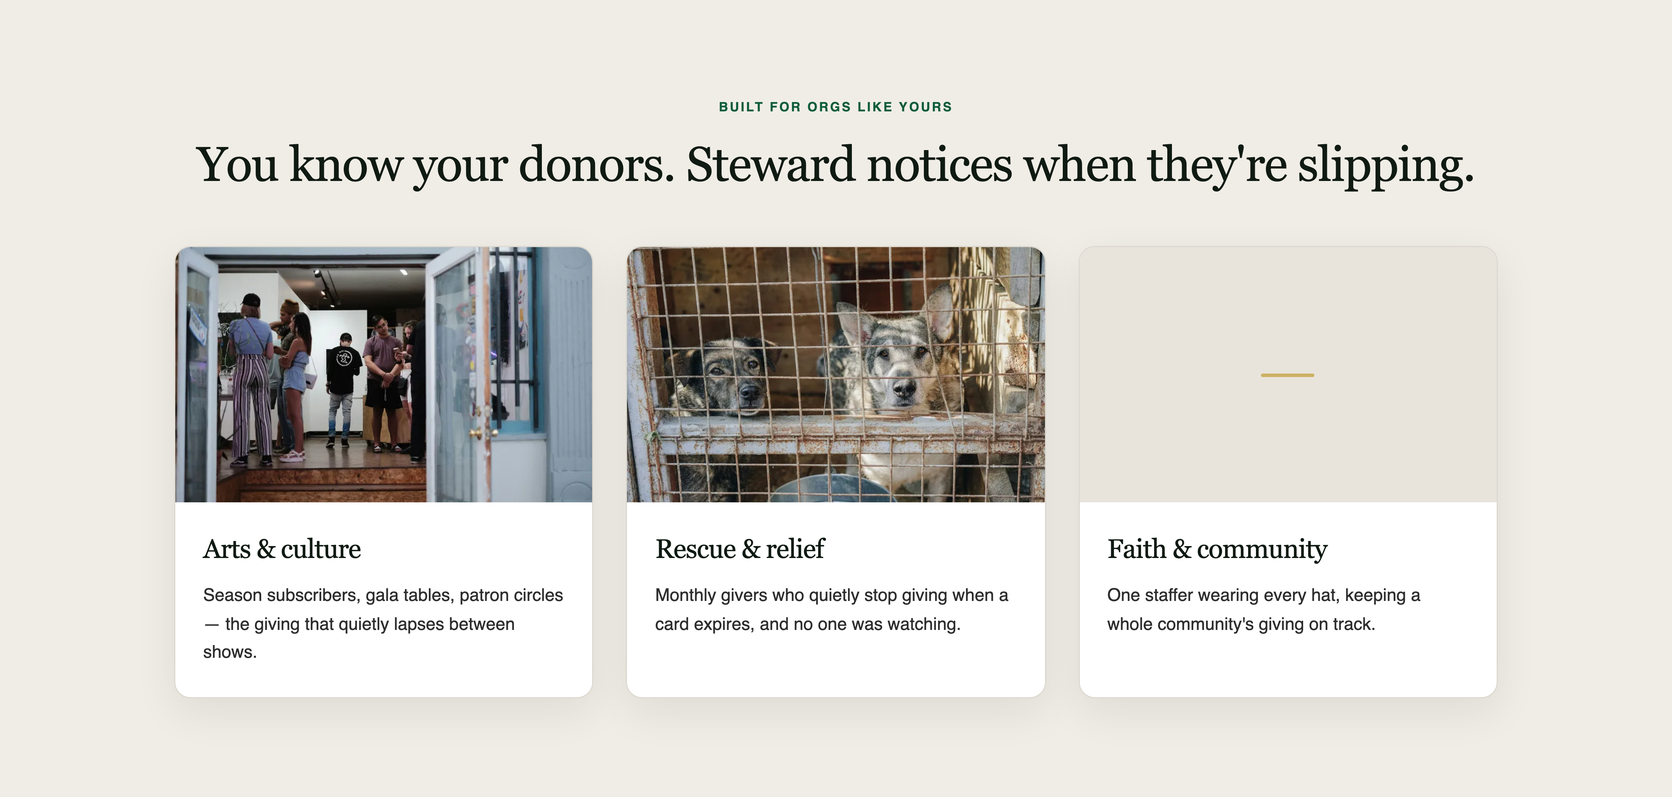
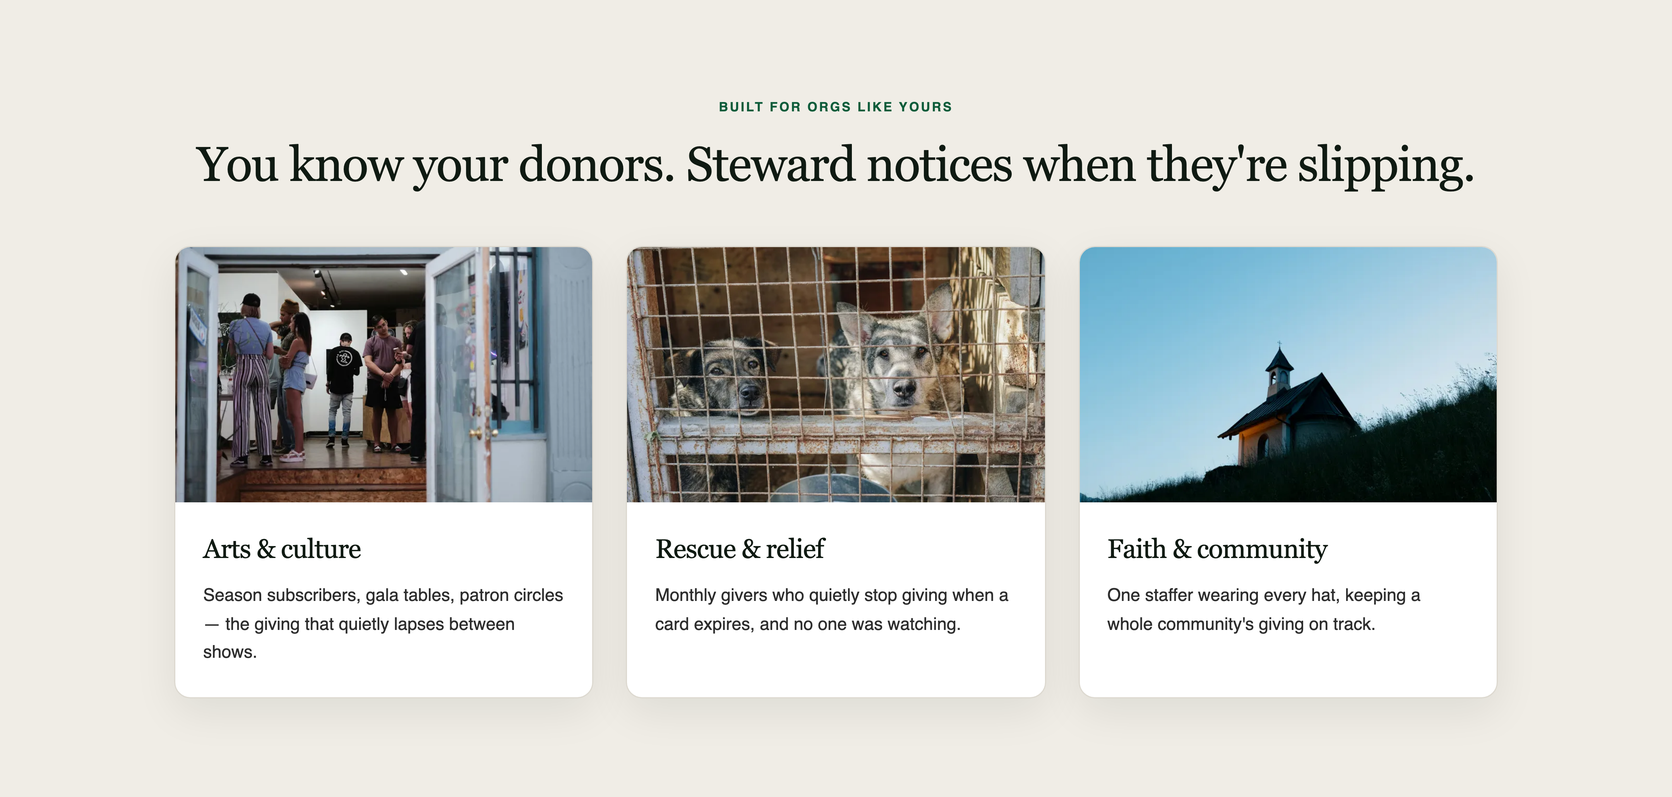
BUILD-28: Faith & community card gets a photo (hillside chapel at dusk)
Wires the user-cleared kevin-mueller-8IbeGOj9AGA-unsplash.jpg into the Faith
card (card-faith-{400,800}.webp). All three verticals cards now carry free-tier
Unsplash photos; the graceful fallback stays in code but is unused. Portrait
source cropped to the landscape card via object-position: center 60% (keeps the
lit chapel framed). Below-the-fold lazy card, no LCP/CLS impact. ASSETS.md +
CLAUDE.md updated. Guards green (funnel 24, hero 18).

Changed region(s): [[0.625, 0.3105, 0.9062, 0.6521]]

diff --git a/client/src/pages/Landing.jsx b/client/src/pages/Landing.jsx
@@ -61,7 +61,8 @@ const VERTICALS = [
   {
     title: "Faith & community",
     blurb: "One staffer wearing every hat, keeping a whole community's giving on track.",
-    img: null,
+    img: "/card-faith",
+    pos: "center 60%", // portrait source — keep the lit chapel in the landscape crop
   },
 ];
 
@@ -683,7 +684,8 @@ export default function Landing() {
                       src={`${v.img}-800.webp`}
                       srcSet={`${v.img}-400.webp 400w, ${v.img}-800.webp 800w`}
                       sizes="(max-width: 768px) 100vw, 360px"
-                      width="800" height="533" loading="lazy" decoding="async" />
+                      width="800" height="533" loading="lazy" decoding="async"
+                      style={v.pos ? { objectPosition: v.pos } : undefined} />
                   ) : (
                     <div className="lp-vert-fallback" aria-hidden="true"><span className="lp-vert-rule" /></div>
                   )}

diff --git a/scripts/build28-prepare-images.js b/scripts/build28-prepare-images.js
@@ -34,6 +34,9 @@ const JOBS = [
   ["dillon-wanner-EeAL5G9HDV0-unsplash.jpg", "card-arts", [400, 800], 80],
   // Rescue & relief vertical card — shelter dogs (Sasha Sashina). ~360px.
   ["sasha-sashina-Xcscr_sNSEY-unsplash.jpg", "card-rescue", [400, 800], 80],
+  // Faith & community vertical card — hillside chapel at dusk (Kevin Mueller).
+  // Portrait source; cropped to the card via object-position (see Landing.jsx).
+  ["kevin-mueller-8IbeGOj9AGA-unsplash.jpg", "card-faith", [400, 800], 80],
 ];
 
 (async () => {

diff --git a/CLAUDE.md b/CLAUDE.md
@@ -83,7 +83,7 @@ Decided 2026-07-16 (BUILD-04 Strike 4): use a free external ping service rather 
 - scripts/landing-funnel-verify.js — committed honesty-gate + funnel check (BUILD-11 Build B). Asserts: the funnel sections render **in order** (hero → wedge calculator → problem → 3 product moments → how-it-works → money strip → candor → founder → close), the interactive recurring-loss **calculator computes correctly** for multiple slider inputs (`monthly × 12 × 0.24`, read from `.lp-calc-loss`) and states its assumption, **no fabricated social proof** (grep guard: no "trusted by"/"as seen in"/star ratings/invented user counts/testimonial-quote-with-attribution/logo-bar images — deliberately NOT a bare `/testimonial/` since the candor section honestly says it won't "sell you a testimonial"), and every CTA links live (Start free → /signup, real footer links). `innerText` is compared **case-insensitively** because CSS `text-transform:uppercase` on the eyebrows changes what `innerText` returns. Same PLAYWRIGHT_DIR/BASE conventions as the other landing scripts. Latest run: **24/24** against a local `vite preview` of the BUILD-12 landing (honesty gates still hold after the DOM-shot rework).
 - **Landing honesty gates (BUILD-11 Build B — MUST hold at every push):** no fabricated logos/testimonials/star-ratings/user-counts/"$X raised"; no advertised feature that isn't live in-product; the product visuals faithfully reflect the real product (as of BUILD-12 they are DOM renders of the real components with clearly-sample-labeled values — not photos, but they must still not misrepresent what ships); the interactive calculator uses honest math with a visible assumption. These are enforced by `landing-funnel-verify.js`. A future session must NOT "add social proof" by faking it — Steward is pre-pilot and the whole brand is that it won't invent traction. Note Supabase backups still don't exist (don't claim them).
 - **Landing product shots are DOM/SVG, NOT raster (BUILD-12 — MUST NOT be reverted):** the hero (goal + retention card), the queue, the receipt, the recovery email, and the three how-it-works shots are live HTML/CSS renders of the real components (Landing.jsx's `HeroShot`/`QueueShot`/`ReceiptShot`/`ImportShot`/`ClimbShot` + the pre-existing `.lp-email`), built to match the crisp `RecoveryCalculator` card. Reason: this is a Vite **static** app (no Vercel/Next image optimizer), so prod serves committed bytes verbatim — the retina blur was never CDN re-encoding, it was raster-of-text softness, and only vector text is crisp at every DPR. Crispness is now verified against **prod-served bytes** by `landing-crispness-prod.js`, not against committed files. Do NOT "optimize" these back into `<img>` screenshots; if a value needs updating, edit the component markup (keep values real or clearly sample-labeled).
-- /client/src/pages/Landing.jsx — public landing page. **BUILD-28 (2026-07-30): the landing is now IMAGE-FORWARD / NONPROFIT-NATIVE — the page's top third is photography + words, the DOM product shots are demoted to PROOF below the calculator.** Structure: full-bleed **photo hero** (`.lp-hero-photo`: a responsive WebP `<img.lp-hero-img>` + a **flat rgba scrim** `.lp-hero-scrim` — never a gradient, gradients stay banned — with the kept eyebrow/headline/subhead/gold-CTAs over the dark quiet upper-left) → **"Built for orgs like yours" verticals band** (`.lp-vert-grid`, 3 cream cards: Arts & culture / Rescue & relief / Faith & community, serif titles) → calculator → **product-proof** section (`.lp-proof`, the relocated `.lp-frame` browser-chrome home screen — still the BUILD-12 live DOM `HeroShot`, do NOT rasterize) → moments → how-it-works → **full-bleed studio atmosphere band** (`.lp-band-img`, no type over it) → founder → close. **The photography is ILLUSTRATIVE arts/community work, NOT a Steward customer — `aria-hidden`, never captioned as one** (honest-imagery rule). **Rights: all shipped photos are free-tier Unsplash, recorded in `client/public/ASSETS.md` (source + license per image); never a watermarked Unsplash+ comp or an editorial-only file.** Arts & Rescue cards carry photos; the Faith & community card ships a graceful on-palette fallback (cream panel + gold rule) until a cleanly-licensed file arrives. **Hero performance (the hero photo is the LCP element):** responsive `srcset`/`sizes=100vw` WebP (`hero-choir-{960,1280,1920,2560}.webp`, mobile LCP 65–98KB), `fetchpriority="high"`, and a **route-scoped preload** in `client/index.html` (an inline `if (location.pathname==="/")` guard injects the hero preload ONLY on `/`, so app/auth routes that share the static shell never fetch it and the BUILD-07 route-split payload win holds). **Lighthouse mobile floor ≥ 93; CLS ≤ 0.02.** Measured on prod (2026-07-30): mobile perf **94–99**, **LCP 1.9–2.7s** (element = the preloaded `hero-choir-1280.webp`, up from BUILD-12's 1.6s DOM-text LCP), **CLS 0**, TBT ≤40ms. **CLS/perf lesson — do NOT regress the font loading:** the brand fonts must load **`display=optional`** AND **non-render-blocking** (JS-injected `<link>` in the Landing render + preconnects in `index.html`). `display=swap` reflows the hero headline when the serif arrives (CLS ~0.03, over the gate); moving the font stylesheet into a render-blocking `<head>` `<link rel=stylesheet>` spikes FCP (~1.6s→2.9s) and drops perf to ~82. Both were measured and rejected. Swapping the hero is a ONE-LINE change: `HERO_SRC` in Landing.jsx + the matching `href`/`imagesrcset` in index.html. Assets are (re)generated by `scripts/build28-prepare-images.js`; **photo filenames deliberately avoid an `lp-` prefix** so they never trip the crispness/image guards. New guard: `scripts/landing-hero-verify.js` (photo+srcset+fetchpriority present, scrim is a flat non-gradient wash, **measured WCAG-AA contrast ≥4.5:1 over the real composited image at 1280 & 390 px**, no fabricated proof in the band) — 18/18; existing `landing-funnel-verify` 24/24, `landing-crispness-prod` 34/34, `landing-image-verify` 18/18, `no-emoji`/`brand-glyph` all still green; DSF3 screenshots in `docs/build28-2026-07-30/`. — **BUILD-12 (2026-07-18): product shots are now LIVE DOM/SVG, not raster screenshots, and the founder letter is Jonathan's real voice.** The hero (goal thermometer + retention card), the queue, the receipt, and the how-it-works trio are React components (`HeroShot`/`QueueShot`/`ReceiptShot`/`ImportShot`/`ClimbShot`, module-level in Landing.jsx) that reproduce the real product components with real / clearly-sample-labeled values — built to match the already-crisp `RecoveryCalculator` card; the recovery-email moment was already DOM (`.lp-email`). All `lp-*.webp` assets, their srcsets, the `GOAL_OVERLAY` constant, the index.html hero preload, and `scripts/landing-capture.js` were removed. The one motion (goal bar filling to its true 22%) is now a real CSS bar (`.lp-goal-fill`, `@keyframes lpFill`, off under reduced-motion) instead of an overlay on a screenshot. The founder band's `TODO-founder-voice` marker is gone: the letter is now Jonathan's own "Why I built Steward" (dad built the donor CRM; the mid-sized-nonprofit gap; the flat-price/0%-fee promise; "I'll fix it this weekend"). Per the no-competitor-names decision, the source draft's named competitors were replaced with "the legacy tools"; the avatar is still a placeholder for a real founder photo. Crispness is verified against **prod-served bytes**: `landing-crispness-prod.js` **34/34 vs prod** + `landing-image-verify.js` **18/18 vs prod** + `landing-funnel-verify.js` **24/24 vs prod**; Lighthouse **mobile 99 on prod** (LCP **1.6s** — DOM text, down from BUILD-11's 2.7s image LCP; CLS 0.011). Committed DPR-3 prod crops: docs/landing-crispness-2026-07-18/ (visibly sharp — the human gate); layout: docs/landing-funnel-2026-07-18/. — Prior register (BUILD-07/BUILD-11) unchanged below: **BUILD-07 book-register rebuild (2026-07-17), extended into an honest funnel with heart + an interactive wedge (BUILD-11 Build B, 2026-07-18)**. BUILD-11 added: (1) **browser-window chrome** around the hero (`.lp-frame`/`.lp-frame-bar` — window dots + `app.stewardapp.dev` URL pill) so the product reads like a real app — the chrome lives OUTSIDE `.lp-shot-wrap`; (2) an **interactive recurring-loss calculator** (`RecoveryCalculator`, `.lp-calc`) — a slider for monthly recurring giving → the annual involuntary-churn loss (`× 12 × 24%`, midpoint of the cited 20–30% range, assumption shown), client-side, honest math not a flattering invented recovery %; terracotta = the leak, green = Steward's job to win it back; (3) a **founder band** with a human avatar slot + "the person who answers your email" line. **`TODO-founder-voice`** marker (in-code, section 6): the founder letter is a DRAFT written FOR Jonathan and must be replaced with his own words (his three open questions — why he built it / who he pictures using it / the promise he'd be embarrassed to break) before shipping as final; the avatar is a placeholder for a real founder photo (never a stock portrait implying a team). Lighthouse **mobile perf 96** (LCP 2.8s throttled, CLS 0.011) against the local preview of the BUILD-11 build — the additions (calculator ~1KB JS, CSS chrome) added no new assets, so the prod-CDN 96 baseline holds; re-confirm against prod after deploy. Verification: `docs/landing-funnel-2026-07-18/` (desktop-full, hero-3x with chrome, calculator-3x, mobile-full) + `landing-funnel-verify.js` 24/24 + `landing-image-verify.js` 12/12 (crispness invariant still holds — chrome didn't degrade the hero). — Original BUILD-07 description follows: **rebuilt wholesale (BUILD-07, 2026-07-17)** in a warm-serious book register: serif hero ("Donors don't leave. They drift. Steward notices."), three-true-numbers subhead (0% platform fees / flat price / 20–30% involuntary recurring churn), three alternating "product moment" sections (real captures: live home queue, the verbatim DEFAULT_DUNNING_BODY email with sample values, the real /receipts/preview PDF), dark money strip ("Your donors give to you. Only you."), the kept-and-refreshed "Where Steward Is Today" candor section with a founding-partner mailto ask, a founder letter (draft flagged in-code for Jonathan's edit), and a real-links-only footer. Honesty commitments preserved: no testimonials, no invented numbers, every claim checked against this file. **`.lp` must carry its own cream background** — index.html's inline `<body style="background:#030712">` beats any stylesheet. The one motion: a CSS overlay on the hero capture's goal bar (measured geometry, fills to its true 22%, ~6s loop, removed under prefers-reduced-motion). CTAs: Start free → /signup; "Talk to the founder" → real Calendly modal (calendly.com/xjca2006) with the founder email visible. **Images (BUILD-08 Phase A, recaptured LOSSLESS + 3x in BUILD-10 Part 2, 2026-07-17)** by the committed `scripts/landing-capture.js` (see its bullet above): six images (lp-home, lp-queue, lp-receipt + How-it-works steps lp-import, lp-attention, lp-climb), each **1x + `-2x` + `-3x` LOSSLESS WebP**, tight element crops displayed near native text size via explicit width/height + a full 1x/2x/3x srcset; the receipt is trimmed to its content (no more empty white bottom half); GOAL_OVERLAY re-measured from the manifest. The q92-lossy / 2x-max BUILD-08 assets read grainy on retina — see the landing-capture.js bullet for the diagnosis + fix; the invariant is now enforced by `scripts/landing-image-verify.js`. New numbered **"How it works" section** (`.lp-hiw-grid`, 3 steps: import → see who needs attention → watch the numbers climb) sits between the product moments and the money strip. Lighthouse **mobile perf 96 against prod CDN** (warm; LCP 2.7s — a cold-CDN first run measured 91, still ≥90; the LCP element loads the 174KB 2x hero, not the 630KB 3x). Verification: docs/landing-retina-2026-07-17/ (DPR-3 hero/queue/receipt crops — crisp text) + docs/landing-2026-07-17-phaseA/ (layout screenshots).
+- /client/src/pages/Landing.jsx — public landing page. **BUILD-28 (2026-07-30): the landing is now IMAGE-FORWARD / NONPROFIT-NATIVE — the page's top third is photography + words, the DOM product shots are demoted to PROOF below the calculator.** Structure: full-bleed **photo hero** (`.lp-hero-photo`: a responsive WebP `<img.lp-hero-img>` + a **flat rgba scrim** `.lp-hero-scrim` — never a gradient, gradients stay banned — with the kept eyebrow/headline/subhead/gold-CTAs over the dark quiet upper-left) → **"Built for orgs like yours" verticals band** (`.lp-vert-grid`, 3 cream cards: Arts & culture / Rescue & relief / Faith & community, serif titles) → calculator → **product-proof** section (`.lp-proof`, the relocated `.lp-frame` browser-chrome home screen — still the BUILD-12 live DOM `HeroShot`, do NOT rasterize) → moments → how-it-works → **full-bleed studio atmosphere band** (`.lp-band-img`, no type over it) → founder → close. **The photography is ILLUSTRATIVE arts/community work, NOT a Steward customer — `aria-hidden`, never captioned as one** (honest-imagery rule). **Rights: all shipped photos are free-tier Unsplash, recorded in `client/public/ASSETS.md` (source + license per image); never a watermarked Unsplash+ comp or an editorial-only file.** All three verticals cards (Arts / Rescue / Faith) carry free-tier Unsplash photos; the graceful on-palette fallback (cream panel + gold rule) remains in code for any future `img: null` slot but is currently unused. **Hero performance (the hero photo is the LCP element):** responsive `srcset`/`sizes=100vw` WebP (`hero-choir-{960,1280,1920,2560}.webp`, mobile LCP 65–98KB), `fetchpriority="high"`, and a **route-scoped preload** in `client/index.html` (an inline `if (location.pathname==="/")` guard injects the hero preload ONLY on `/`, so app/auth routes that share the static shell never fetch it and the BUILD-07 route-split payload win holds). **Lighthouse mobile floor ≥ 93; CLS ≤ 0.02.** Measured on prod (2026-07-30): mobile perf **94–99**, **LCP 1.9–2.7s** (element = the preloaded `hero-choir-1280.webp`, up from BUILD-12's 1.6s DOM-text LCP), **CLS 0**, TBT ≤40ms. **CLS/perf lesson — do NOT regress the font loading:** the brand fonts must load **`display=optional`** AND **non-render-blocking** (JS-injected `<link>` in the Landing render + preconnects in `index.html`). `display=swap` reflows the hero headline when the serif arrives (CLS ~0.03, over the gate); moving the font stylesheet into a render-blocking `<head>` `<link rel=stylesheet>` spikes FCP (~1.6s→2.9s) and drops perf to ~82. Both were measured and rejected. Swapping the hero is a ONE-LINE change: `HERO_SRC` in Landing.jsx + the matching `href`/`imagesrcset` in index.html. Assets are (re)generated by `scripts/build28-prepare-images.js`; **photo filenames deliberately avoid an `lp-` prefix** so they never trip the crispness/image guards. New guard: `scripts/landing-hero-verify.js` (photo+srcset+fetchpriority present, scrim is a flat non-gradient wash, **measured WCAG-AA contrast ≥4.5:1 over the real composited image at 1280 & 390 px**, no fabricated proof in the band) — 18/18; existing `landing-funnel-verify` 24/24, `landing-crispness-prod` 34/34, `landing-image-verify` 18/18, `no-emoji`/`brand-glyph` all still green; DSF3 screenshots in `docs/build28-2026-07-30/`. — **BUILD-12 (2026-07-18): product shots are now LIVE DOM/SVG, not raster screenshots, and the founder letter is Jonathan's real voice.** The hero (goal thermometer + retention card), the queue, the receipt, and the how-it-works trio are React components (`HeroShot`/`QueueShot`/`ReceiptShot`/`ImportShot`/`ClimbShot`, module-level in Landing.jsx) that reproduce the real product components with real / clearly-sample-labeled values — built to match the already-crisp `RecoveryCalculator` card; the recovery-email moment was already DOM (`.lp-email`). All `lp-*.webp` assets, their srcsets, the `GOAL_OVERLAY` constant, the index.html hero preload, and `scripts/landing-capture.js` were removed. The one motion (goal bar filling to its true 22%) is now a real CSS bar (`.lp-goal-fill`, `@keyframes lpFill`, off under reduced-motion) instead of an overlay on a screenshot. The founder band's `TODO-founder-voice` marker is gone: the letter is now Jonathan's own "Why I built Steward" (dad built the donor CRM; the mid-sized-nonprofit gap; the flat-price/0%-fee promise; "I'll fix it this weekend"). Per the no-competitor-names decision, the source draft's named competitors were replaced with "the legacy tools"; the avatar is still a placeholder for a real founder photo. Crispness is verified against **prod-served bytes**: `landing-crispness-prod.js` **34/34 vs prod** + `landing-image-verify.js` **18/18 vs prod** + `landing-funnel-verify.js` **24/24 vs prod**; Lighthouse **mobile 99 on prod** (LCP **1.6s** — DOM text, down from BUILD-11's 2.7s image LCP; CLS 0.011). Committed DPR-3 prod crops: docs/landing-crispness-2026-07-18/ (visibly sharp — the human gate); layout: docs/landing-funnel-2026-07-18/. — Prior register (BUILD-07/BUILD-11) unchanged below: **BUILD-07 book-register rebuild (2026-07-17), extended into an honest funnel with heart + an interactive wedge (BUILD-11 Build B, 2026-07-18)**. BUILD-11 added: (1) **browser-window chrome** around the hero (`.lp-frame`/`.lp-frame-bar` — window dots + `app.stewardapp.dev` URL pill) so the product reads like a real app — the chrome lives OUTSIDE `.lp-shot-wrap`; (2) an **interactive recurring-loss calculator** (`RecoveryCalculator`, `.lp-calc`) — a slider for monthly recurring giving → the annual involuntary-churn loss (`× 12 × 24%`, midpoint of the cited 20–30% range, assumption shown), client-side, honest math not a flattering invented recovery %; terracotta = the leak, green = Steward's job to win it back; (3) a **founder band** with a human avatar slot + "the person who answers your email" line. **`TODO-founder-voice`** marker (in-code, section 6): the founder letter is a DRAFT written FOR Jonathan and must be replaced with his own words (his three open questions — why he built it / who he pictures using it / the promise he'd be embarrassed to break) before shipping as final; the avatar is a placeholder for a real founder photo (never a stock portrait implying a team). Lighthouse **mobile perf 96** (LCP 2.8s throttled, CLS 0.011) against the local preview of the BUILD-11 build — the additions (calculator ~1KB JS, CSS chrome) added no new assets, so the prod-CDN 96 baseline holds; re-confirm against prod after deploy. Verification: `docs/landing-funnel-2026-07-18/` (desktop-full, hero-3x with chrome, calculator-3x, mobile-full) + `landing-funnel-verify.js` 24/24 + `landing-image-verify.js` 12/12 (crispness invariant still holds — chrome didn't degrade the hero). — Original BUILD-07 description follows: **rebuilt wholesale (BUILD-07, 2026-07-17)** in a warm-serious book register: serif hero ("Donors don't leave. They drift. Steward notices."), three-true-numbers subhead (0% platform fees / flat price / 20–30% involuntary recurring churn), three alternating "product moment" sections (real captures: live home queue, the verbatim DEFAULT_DUNNING_BODY email with sample values, the real /receipts/preview PDF), dark money strip ("Your donors give to you. Only you."), the kept-and-refreshed "Where Steward Is Today" candor section with a founding-partner mailto ask, a founder letter (draft flagged in-code for Jonathan's edit), and a real-links-only footer. Honesty commitments preserved: no testimonials, no invented numbers, every claim checked against this file. **`.lp` must carry its own cream background** — index.html's inline `<body style="background:#030712">` beats any stylesheet. The one motion: a CSS overlay on the hero capture's goal bar (measured geometry, fills to its true 22%, ~6s loop, removed under prefers-reduced-motion). CTAs: Start free → /signup; "Talk to the founder" → real Calendly modal (calendly.com/xjca2006) with the founder email visible. **Images (BUILD-08 Phase A, recaptured LOSSLESS + 3x in BUILD-10 Part 2, 2026-07-17)** by the committed `scripts/landing-capture.js` (see its bullet above): six images (lp-home, lp-queue, lp-receipt + How-it-works steps lp-import, lp-attention, lp-climb), each **1x + `-2x` + `-3x` LOSSLESS WebP**, tight element crops displayed near native text size via explicit width/height + a full 1x/2x/3x srcset; the receipt is trimmed to its content (no more empty white bottom half); GOAL_OVERLAY re-measured from the manifest. The q92-lossy / 2x-max BUILD-08 assets read grainy on retina — see the landing-capture.js bullet for the diagnosis + fix; the invariant is now enforced by `scripts/landing-image-verify.js`. New numbered **"How it works" section** (`.lp-hiw-grid`, 3 steps: import → see who needs attention → watch the numbers climb) sits between the product moments and the money strip. Lighthouse **mobile perf 96 against prod CDN** (warm; LCP 2.7s — a cold-CDN first run measured 91, still ≥90; the LCP element loads the 174KB 2x hero, not the 630KB 3x). Verification: docs/landing-retina-2026-07-17/ (DPR-3 hero/queue/receipt crops — crisp text) + docs/landing-2026-07-17-phaseA/ (layout screenshots).
 - /client/src/pages/LoginPage.jsx — login, writes localStorage directly; post-login redirect is `/dashboard` (was `/today`)
 - /client/src/pages/SignupPage.jsx — signup
 - /client/src/pages/WelcomePage.jsx — 5-step onboarding that finishes with real data, not a blank slate (org basics → import donors → set first goal → first impact metric → finish). See "Onboarding flow" below.

diff --git a/client/public/ASSETS.md b/client/public/ASSETS.md
@@ -16,18 +16,18 @@ must never be captioned as such (they render `aria-hidden`, no caption).
 | **Mid-page band** — working pottery studio | `band-studio-{1280,1920}.webp` | Earl Wilcox | https://unsplash.com/photos/pSo0u53FF10 | Unsplash (free, commercial OK, no attribution required) |
 | **Verticals card — Arts & culture** — patrons at an arts space | `card-arts-{400,800}.webp` | Dillon Wanner | https://unsplash.com/photos/EeAL5G9HDV0 | Unsplash (free, commercial OK, no attribution required) |
 | **Verticals card — Rescue & relief** — shelter dogs | `card-rescue-{400,800}.webp` | Sasha Sashina | https://unsplash.com/photos/Xcscr_sNSEY | Unsplash (free, commercial OK, no attribution required) |
+| **Verticals card — Faith & community** — hillside chapel at dusk | `card-faith-{400,800}.webp` | Kevin Mueller | https://unsplash.com/photos/8IbeGOj9AGA | Unsplash (free, commercial OK, no attribution required) |
+
+All three verticals cards now carry a photo — the graceful cream-panel + gold-rule
+fallback (still in `Landing.jsx` for any `img: null` slot) is currently unused.
 
 Note on the Rescue image: it's a caged-kennel framing. The original BUILD-28
 brief preferred a *hopeful* shot (volunteer with an animal / adoption moment)
 over caged/pity framing — user-selected this file regardless; swap later if a
 more hopeful licensed shot is sourced.
 
-## Slots shipped WITHOUT a photo (graceful on-palette fallback)
-- **Faith & community card** — awaiting a cleared replacement. The candidate
-  `blackchoir.jpg` is the **Morgan State University Choir** (identifiable
-  institution + ~30 identifiable people, reads editorial) → not shipped.
-
-Both render a warm cream panel + gold rule until a licensed file is dropped in.
+Note on the Faith image: portrait source, cropped to the landscape card via
+`object-position: center 60%` (keeps the lit chapel framed).
 
 ## Regenerating / swapping
 - Responsive WebP variants are produced by `scripts/build28-prepare-images.js`
